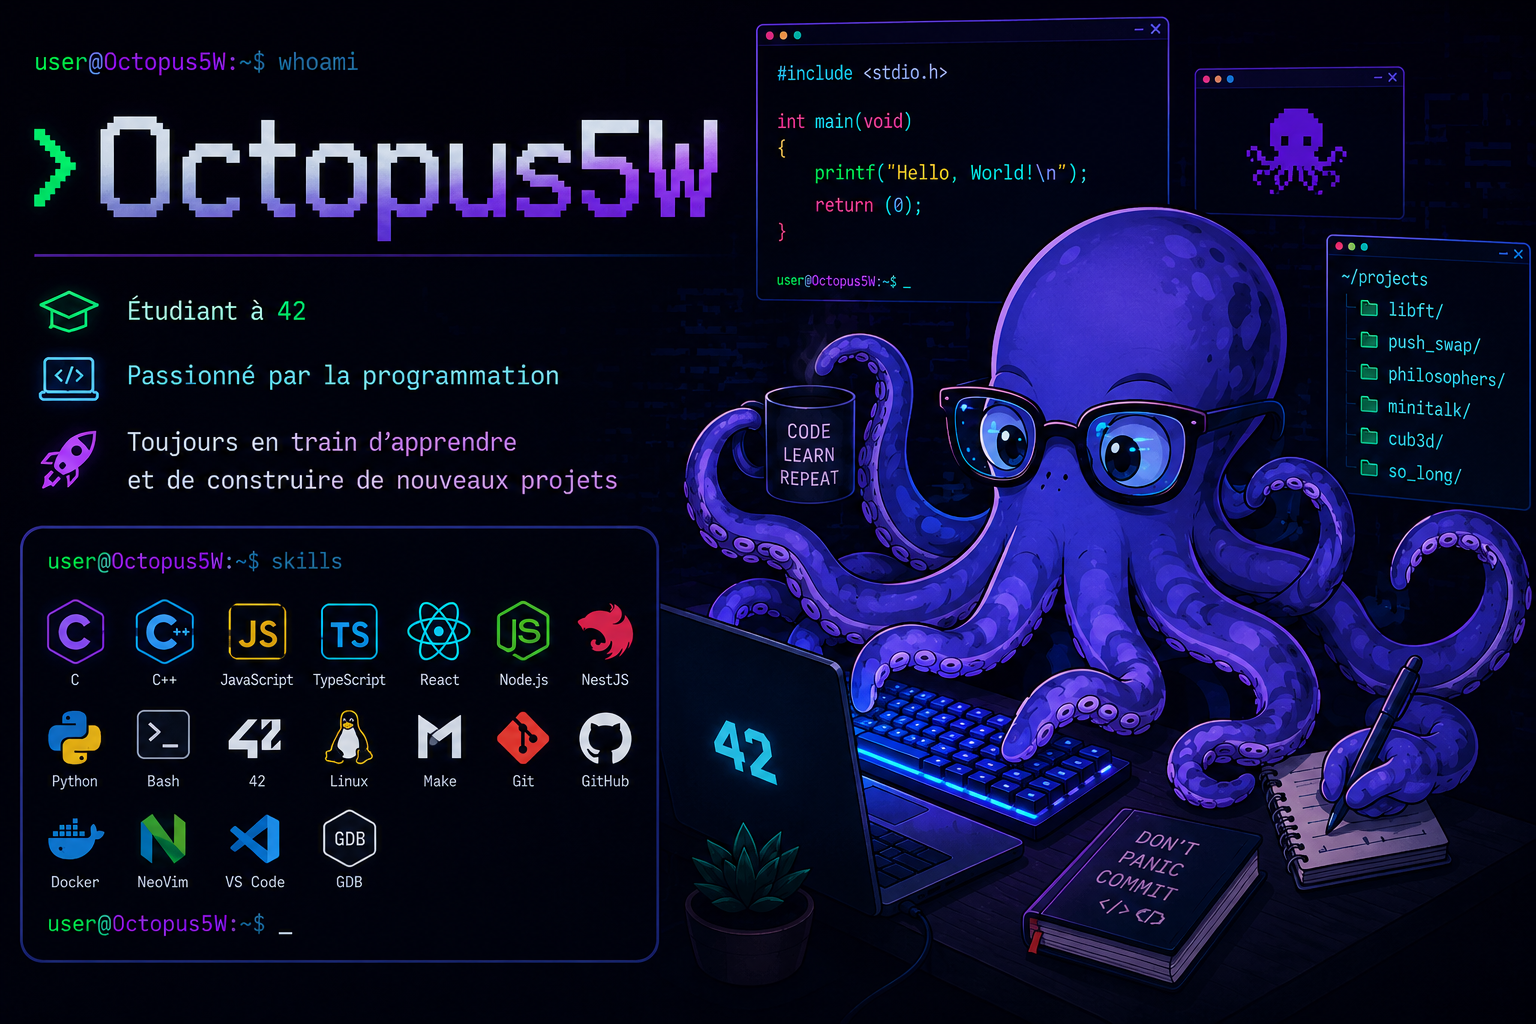
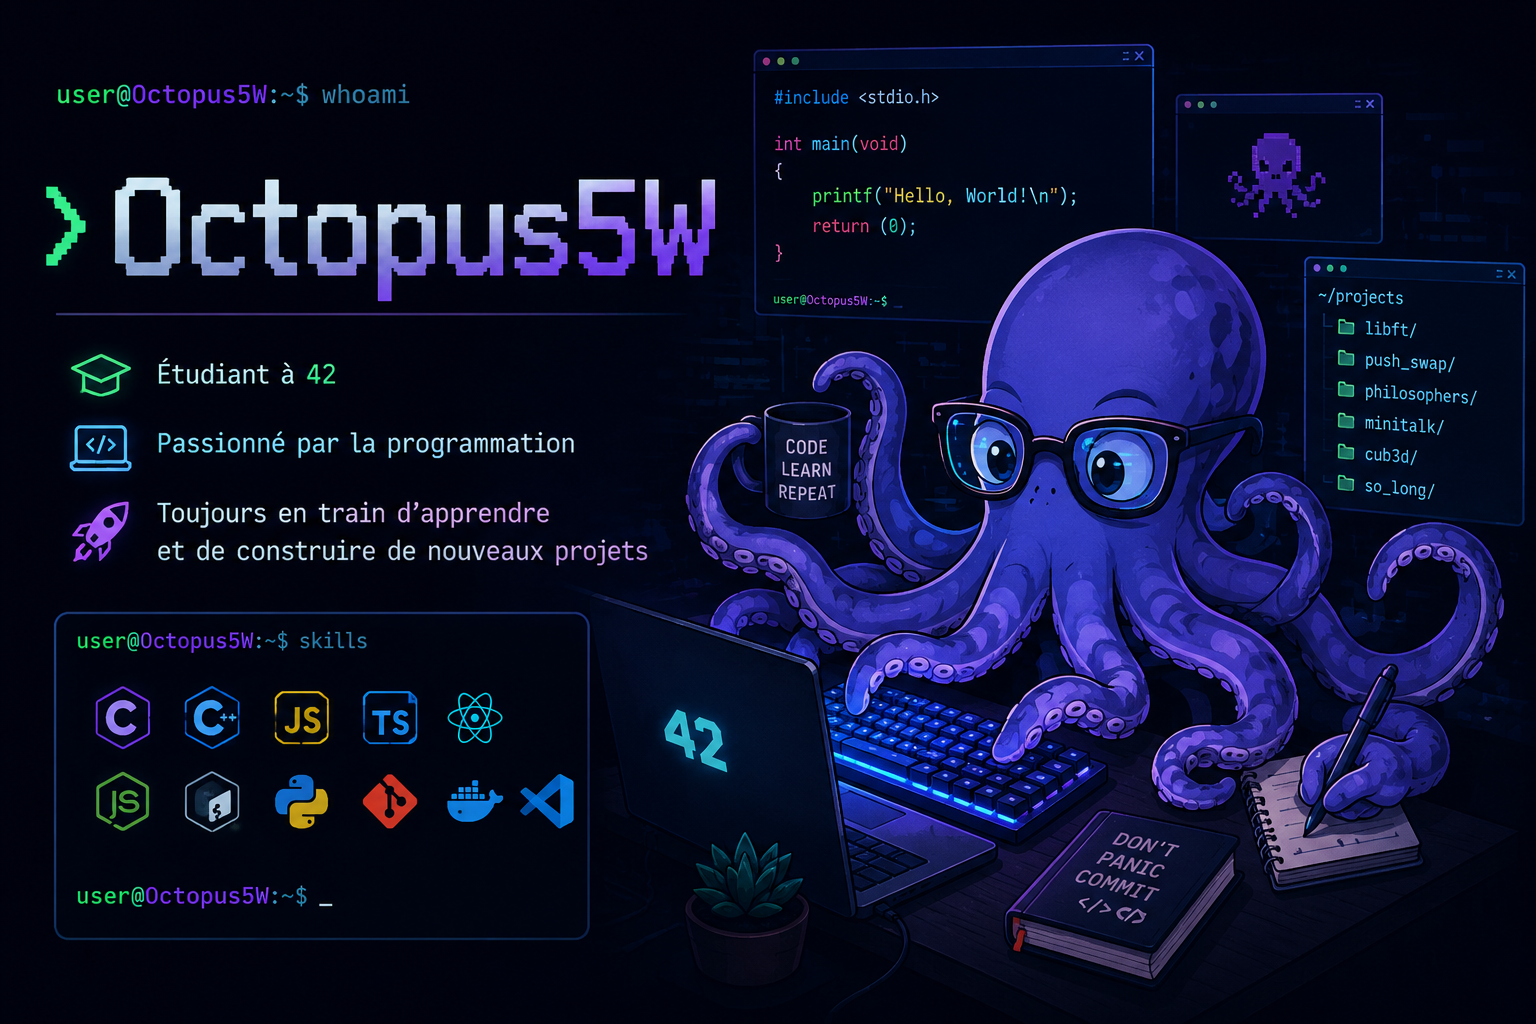
add assets

Changed region(s): [[0.0, 0.0, 1.0, 0.9688], [0.5938, 0.9062, 0.625, 0.9375]]

diff --git a/README.md b/README.md
@@ -1,5 +1,5 @@
 <p align="center">
-  <img src="./assets/about1.png" alt="À propos de moi">
+  <img src="./assets/about9.png" alt="À propos de moi">
 </p>
 
 ---
